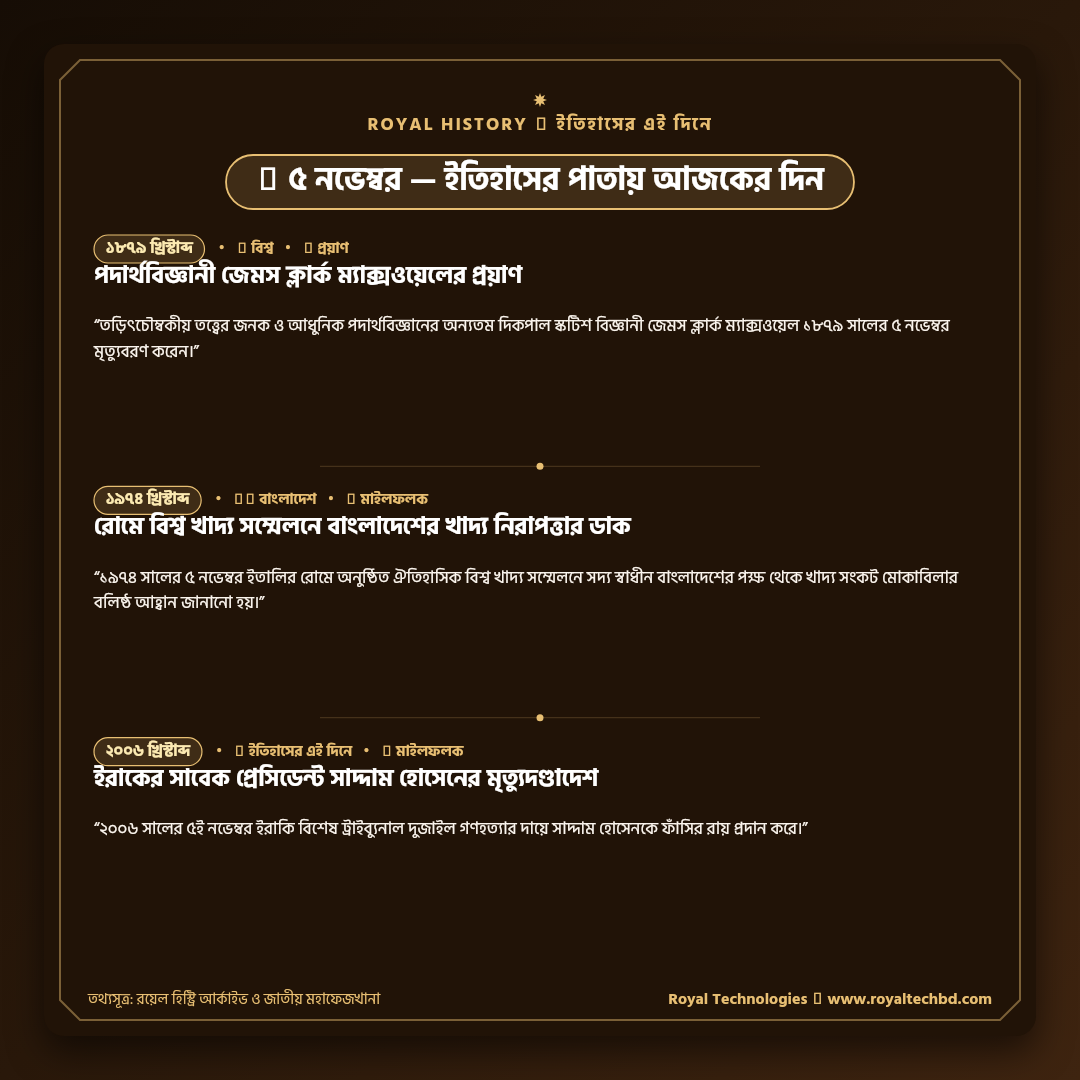
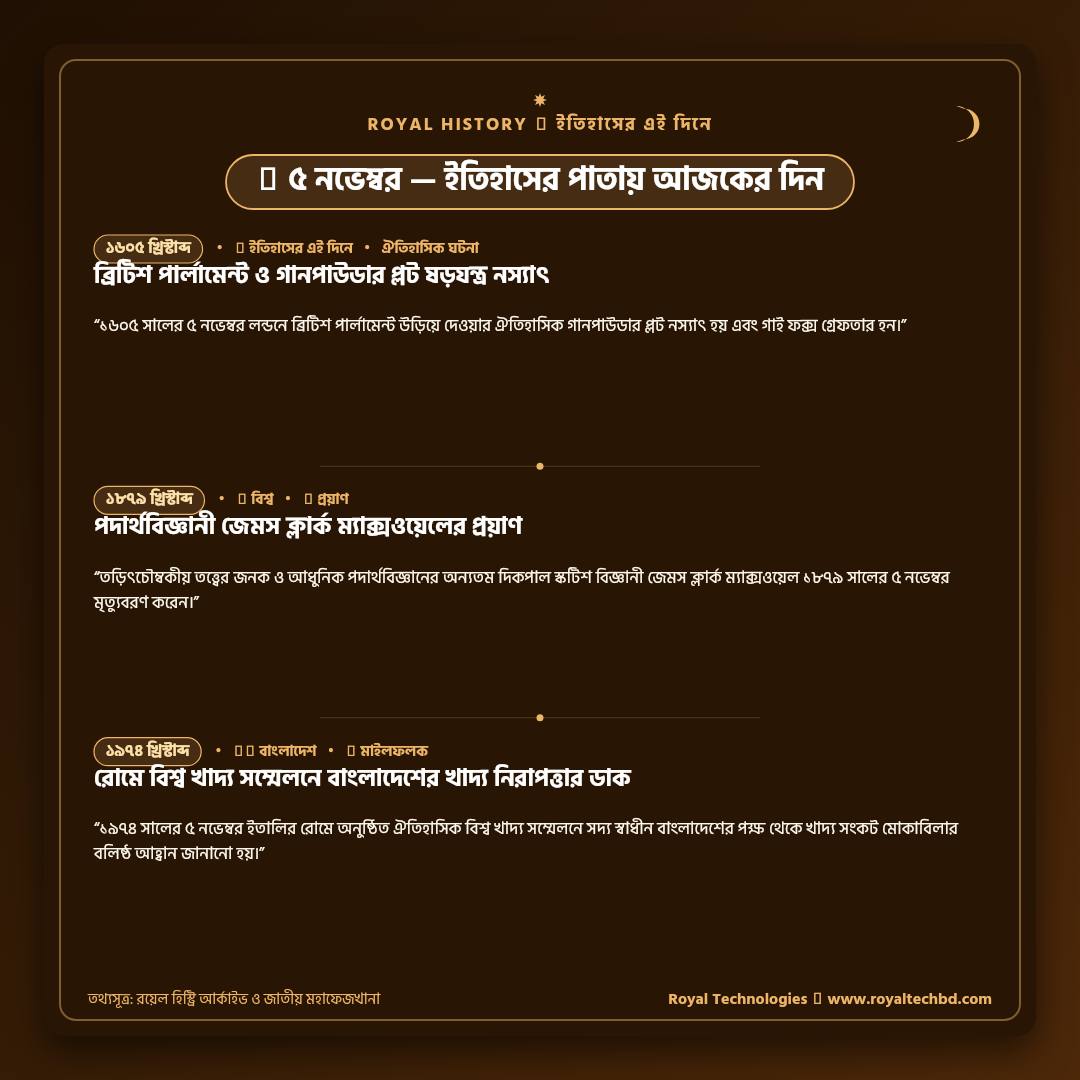
chore: test multi-event generation with celestial-crescent and desert-amber theme

diff --git a/cards/today-data.js b/cards/today-data.js
@@ -1,8 +1,32 @@
 window.ROYAL_TODAY_HISTORY = {
-  "cardId": "RH-20261105-GOZX",
+  "cardId": "RH-20261105-HB8E",
   "dateText": "৫ নভেম্বর",
   "eventCount": 3,
   "events": [
+    {
+      "id": 1,
+      "uid": "RH-DAY-1105-01",
+      "category": "on_this_day",
+      "event_type": "event",
+      "event_year": 1605,
+      "event_year_display": "১৬০৫ খ্রিস্টাব্দ",
+      "event_date": "৫ নভেম্বর",
+      "target_day": 5,
+      "target_month": 11,
+      "title": "ব্রিটিশ পার্লামেন্ট ও গানপাউডার প্লট ষড়যন্ত্র নস্যাৎ",
+      "summary": "১৬০৫ সালের ৫ নভেম্বর লন্ডনে ব্রিটিশ পার্লামেন্ট উড়িয়ে দেওয়ার ঐতিহাসিক গানপাউডার প্লট নস্যাৎ হয় এবং গাই ফক্স গ্রেফতার হন।",
+      "description": "১৬০৫ সালের ৫ নভেম্বর লন্ডনের হাউস অব লর্ডস বোমা মেরে উড়িয়ে দেওয়ার ক্যাথলিক ষড়যন্ত্র নস্যাৎ হয়। ষড়যন্ত্রকারী গাই ফক্স পার্লামেন্টের মাটির নিচের কক্ষে ৩৬ ব্যারেল গানপাউডার সহ হাতেনাতে গ্রেফতার হন। এই ঘটনা স্মরণে ব্রিটেনে আজও প্রতিবছর ৫ নভেম্বর 'বনফায়ার নাইট' উদযাপিত হয়।",
+      "significance": "ব্রিটিশ রাজতন্ত্র রক্ষা ও রাজনৈতিক ইতিহাসে অত্যন্ত স্মরণীয় অধ্যায়",
+      "location": "লন্ডন, ইংল্যান্ড",
+      "reference": "ব্রিটিশ ন্যাশনাল আর্কাইভস / উইকিপিডিয়া",
+      "tags": "যুক্তরাজ্য,ইতিহাস,গানপাউডার_প্লট,গাই_ফক্স",
+      "priority": 1,
+      "used_count": 3,
+      "last_used_at": "2026-11-05T16:05:19.803Z",
+      "is_active": 1,
+      "created_at": "2026-11-05 15:05:28",
+      "updated_at": "2026-11-05T16:05:19.803Z"
+    },
     {
       "id": 3,
       "uid": "RH-WD-1105-01",
@@ -21,11 +45,11 @@ window.ROYAL_TODAY_HISTORY = {
       "reference": "রয়্যাল সোসাইটি অব লন্ডন",
       "tags": "বিজ্ঞান,পদার্থবিজ্ঞান,ম্যাক্সওয়েল,আবিষ্কার",
       "priority": 1,
-      "used_count": 6,
-      "last_used_at": "2026-11-05T16:05:28.221Z",
+      "used_count": 7,
+      "last_used_at": "2026-11-05T16:05:37.184Z",
       "is_active": 1,
       "created_at": "2026-11-05 15:05:28",
-      "updated_at": "2026-11-05T16:05:28.221Z"
+      "updated_at": "2026-11-05T16:05:37.184Z"
     },
     {
       "id": 2,
@@ -45,48 +69,24 @@ window.ROYAL_TODAY_HISTORY = {
       "reference": "জাতিসংঘ খাদ্য ও কৃষি সংস্থা (FAO)",
       "tags": "বাংলাদেশ,কূটনীতি,খাদ্য_নিরাপত্তা,জাতিসংঘ",
       "priority": 1,
-      "used_count": 6,
-      "last_used_at": "2026-11-05T16:05:28.221Z",
+      "used_count": 7,
+      "last_used_at": "2026-11-05T16:05:37.184Z",
       "is_active": 1,
       "created_at": "2026-11-05 15:05:28",
-      "updated_at": "2026-11-05T16:05:28.221Z"
-    },
-    {
-      "id": 26,
-      "uid": "RH-DAY-1105-03",
-      "category": "on_this_day",
-      "event_type": "milestone",
-      "event_year": 2006,
-      "event_year_display": "২০০৬ খ্রিস্টাব্দ",
-      "event_date": "৫ নভেম্বর",
-      "target_day": 5,
-      "target_month": 11,
-      "title": "ইরাকের সাবেক প্রেসিডেন্ট সাদ্দাম হোসেনের মৃত্যুদণ্ডাদেশ",
-      "summary": "২০০৬ সালের ৫ই নভেম্বর ইরাকি বিশেষ ট্রাইব্যুনাল দুজাইল গণহত্যার দায়ে সাদ্দাম হোসেনকে ফাঁসির রায় প্রদান করে।",
-      "description": "১৯৮২ সালে দুজাইল গ্রামে ১৪৮ জন শিয়া মুসলিমকে হত্যার দায়ে সাদ্দাম হোসেনকে মানবতাবিরোধী অপরাধে দোষী সাব্যস্ত করে মৃত্যুদণ্ডাদেশ দেওয়া হয়। এটি মধ্যপ্রাচ্যের রাজনীতিতে এক বড় ধরনের অধ্যায়ের সমাপ্তি ঘটায়।",
-      "significance": "মধ্যপ্রাচ্যের সমসাময়িক রাজনৈতিক ইতিহাসের অন্যতম বিতর্কিত ও আলোচিত রায়",
-      "location": "বাগদাদ, ইরাক",
-      "reference": "আন্তর্জাতিক গণমাধ্যম ও ট্রাইব্যুনাল নথিপত্র",
-      "tags": "সাদ্দাম_হোসেন,ইরাক,মধ্যপ্রাচ্য,ইতিহাস",
-      "priority": 1,
-      "used_count": 2,
-      "last_used_at": "2026-11-05T16:05:08.703Z",
-      "is_active": 1,
-      "created_at": "2026-11-05 15:05:28",
-      "updated_at": "2026-11-05T16:05:08.703Z"
+      "updated_at": "2026-11-05T16:05:37.184Z"
     }
   ],
-  "uid": "RH-WD-1105-01",
-  "category": "world",
-  "eventYear": 1879,
-  "eventYearDisplay": "১৮৭৯ খ্রিস্টাব্দ",
+  "uid": "RH-DAY-1105-01",
+  "category": "on_this_day",
+  "eventYear": 1605,
+  "eventYearDisplay": "১৬০৫ খ্রিস্টাব্দ",
   "eventDate": "৫ নভেম্বর",
-  "title": "পদার্থবিজ্ঞানী জেমস ক্লার্ক ম্যাক্সওয়েলের প্রয়াণ",
-  "summary": "তড়িৎচৌম্বকীয় তত্ত্বের জনক ও আধুনিক পদার্থবিজ্ঞানের অন্যতম দিকপাল স্কটিশ বিজ্ঞানী জেমস ক্লার্ক ম্যাক্সওয়েল ১৮৭৯ সালের ৫ নভেম্বর মৃত্যুবরণ করেন।",
-  "layout": "octagram-medallion",
-  "theme": "andalusian-mihrab",
-  "caption": "🏛 Royal History — ইতিহাসের এই দিনে\n📅 ৫ নভেম্বর — ইতিহাসের পাতায় আজকের স্মরণীয় ঘটনাবলী\n\n🔹 ১৮৭৯ খ্রিস্টাব্দ [📜 বিশ্ব ইতিহাস]:\n⭐ পদার্থবিজ্ঞানী জেমস ক্লার্ক ম্যাক্সওয়েলের প্রয়াণ\n“তড়িৎচৌম্বকীয় তত্ত্বের জনক ও আধুনিক পদার্থবিজ্ঞানের অন্যতম দিকপাল স্কটিশ বিজ্ঞানী জেমস ক্লার্ক ম্যাক্সওয়েল ১৮৭৯ সালের ৫ নভেম্বর মৃত্যুবরণ করেন।”\n✨ তাৎপর্য: আধুনিক বেতার, টেলিভিশন ও ওয়্যারলেস যোগাযোগ ব্যবস্থার গাণিতিক ভিত্তি\n\n🔹 ১৯৭৪ খ্রিস্টাব্দ [🇧🇩 বাংলাদেশ ইতিহাস]:\n⭐ রোমে বিশ্ব খাদ্য সম্মেলনে বাংলাদেশের খাদ্য নিরাপত্তার ডাক\n“১৯৭৪ সালের ৫ নভেম্বর ইতালির রোমে অনুষ্ঠিত ঐতিহাসিক বিশ্ব খাদ্য সম্মেলনে সদ্য স্বাধীন বাংলাদেশের পক্ষ থেকে খাদ্য সংকট মোকাবিলার বলিষ্ঠ আহ্বান জানানো হয়।”\n✨ তাৎপর্য: সদ্য স্বাধীন বাংলাদেশের খাদ্য নিরাপত্তা ও আন্তর্জাতিক কূটনীতির মাইলফলক\n\n🔹 ২০০৬ খ্রিস্টাব্দ [📜 বিশ্ব ইতিহাস]:\n⭐ ইরাকের সাবেক প্রেসিডেন্ট সাদ্দাম হোসেনের মৃত্যুদণ্ডাদেশ\n“২০০৬ সালের ৫ই নভেম্বর ইরাকি বিশেষ ট্রাইব্যুনাল দুজাইল গণহত্যার দায়ে সাদ্দাম হোসেনকে ফাঁসির রায় প্রদান করে।”\n✨ তাৎপর্য: মধ্যপ্রাচ্যের সমসাময়িক রাজনৈতিক ইতিহাসের অন্যতম বিতর্কিত ও আলোচিত রায়\n\n📌 তথ্যসূত্র: রয়েল হিস্ট্রি আর্কাইভ ও জাতীয় মহাফেজখানা\n\n—\nকারিগরি সহায়তায়: Royal Technologies (https://www.royaltechbd.com/)\nওয়েবসাইট ও পূর্ণাঙ্গ আর্কাইভ: https://royal-technologies.github.io/Royal-History/\n\n#RoyalTechnologies #RoyalHistory #ItihasherEiDine #OnThisDay #BangladeshHistory #WorldHistory #TodayInHistory #ইতিহাসেরএইদিনে",
+  "title": "ব্রিটিশ পার্লামেন্ট ও গানপাউডার প্লট ষড়যন্ত্র নস্যাৎ",
+  "summary": "১৬০৫ সালের ৫ নভেম্বর লন্ডনে ব্রিটিশ পার্লামেন্ট উড়িয়ে দেওয়ার ঐতিহাসিক গানপাউডার প্লট নস্যাৎ হয় এবং গাই ফক্স গ্রেফতার হন।",
+  "layout": "celestial-crescent",
+  "theme": "desert-amber",
+  "caption": "🏛 Royal History — ইতিহাসের এই দিনে\n📅 ৫ নভেম্বর — ইতিহাসের পাতায় আজকের স্মরণীয় ঘটনাবলী\n\n🔹 ১৬০৫ খ্রিস্টাব্দ [📜 বিশ্ব ইতিহাস]:\n⭐ ব্রিটিশ পার্লামেন্ট ও গানপাউডার প্লট ষড়যন্ত্র নস্যাৎ\n“১৬০৫ সালের ৫ নভেম্বর লন্ডনে ব্রিটিশ পার্লামেন্ট উড়িয়ে দেওয়ার ঐতিহাসিক গানপাউডার প্লট নস্যাৎ হয় এবং গাই ফক্স গ্রেফতার হন।”\n✨ তাৎপর্য: ব্রিটিশ রাজতন্ত্র রক্ষা ও রাজনৈতিক ইতিহাসে অত্যন্ত স্মরণীয় অধ্যায়\n\n🔹 ১৮৭৯ খ্রিস্টাব্দ [📜 বিশ্ব ইতিহাস]:\n⭐ পদার্থবিজ্ঞানী জেমস ক্লার্ক ম্যাক্সওয়েলের প্রয়াণ\n“তড়িৎচৌম্বকীয় তত্ত্বের জনক ও আধুনিক পদার্থবিজ্ঞানের অন্যতম দিকপাল স্কটিশ বিজ্ঞানী জেমস ক্লার্ক ম্যাক্সওয়েল ১৮৭৯ সালের ৫ নভেম্বর মৃত্যুবরণ করেন।”\n✨ তাৎপর্য: আধুনিক বেতার, টেলিভিশন ও ওয়্যারলেস যোগাযোগ ব্যবস্থার গাণিতিক ভিত্তি\n\n🔹 ১৯৭৪ খ্রিস্টাব্দ [🇧🇩 বাংলাদেশ ইতিহাস]:\n⭐ রোমে বিশ্ব খাদ্য সম্মেলনে বাংলাদেশের খাদ্য নিরাপত্তার ডাক\n“১৯৭৪ সালের ৫ নভেম্বর ইতালির রোমে অনুষ্ঠিত ঐতিহাসিক বিশ্ব খাদ্য সম্মেলনে সদ্য স্বাধীন বাংলাদেশের পক্ষ থেকে খাদ্য সংকট মোকাবিলার বলিষ্ঠ আহ্বান জানানো হয়।”\n✨ তাৎপর্য: সদ্য স্বাধীন বাংলাদেশের খাদ্য নিরাপত্তা ও আন্তর্জাতিক কূটনীতির মাইলফলক\n\n📌 তথ্যসূত্র: রয়েল হিস্ট্রি আর্কাইভ ও জাতীয় মহাফেজখানা\n\n—\nকারিগরি সহায়তায়: Royal Technologies (https://www.royaltechbd.com/)\nওয়েবসাইট ও পূর্ণাঙ্গ আর্কাইভ: https://royal-technologies.github.io/Royal-History/\n\n#RoyalTechnologies #RoyalHistory #ItihasherEiDine #OnThisDay #BangladeshHistory #WorldHistory #TodayInHistory #ইতিহাসেরএইদিনে",
   "imageUrl": "https://royal-technologies.github.io/Royal-History/cards/today.png",
-  "archiveUrl": "https://royal-technologies.github.io/Royal-History/cards/RH-20261105-GOZX.png",
-  "generatedAt": "2026-11-05T16:05:37.182Z"
+  "archiveUrl": "https://royal-technologies.github.io/Royal-History/cards/RH-20261105-HB8E.png",
+  "generatedAt": "2026-11-05T16:07:27.091Z"
 };
